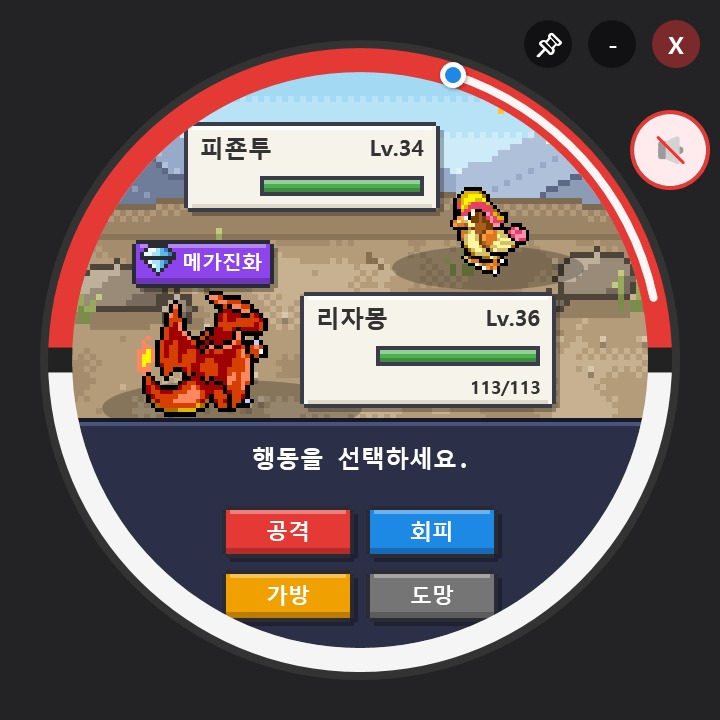
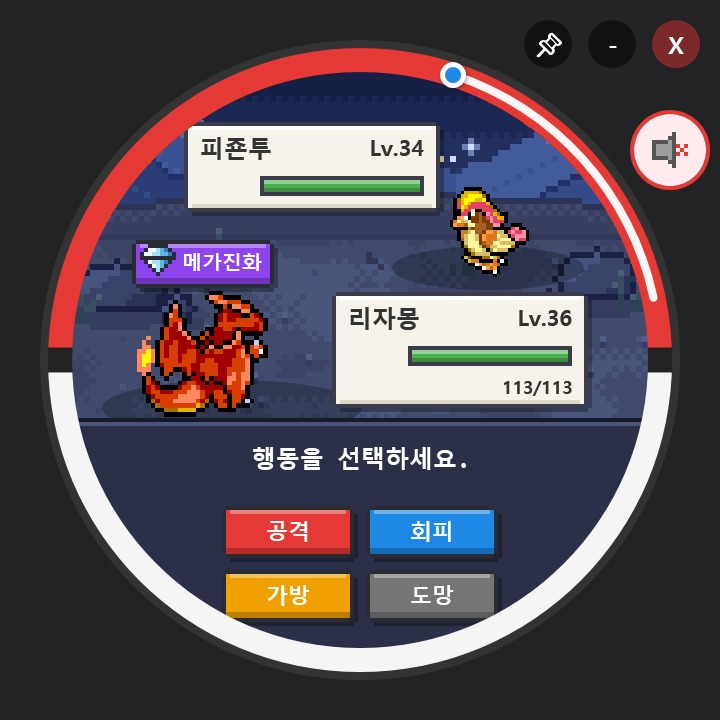
이모지 라이브러리를 빼고 남은 이모지를 픽셀 아이콘으로
- 대기 화면 소리 버튼, 배틀 상태이상 효과(화상/독/맹독/마비/얼음/잠듦), 산책 말풍선을 픽셀 아이콘으로
- 좋아하는 열매 이름에서 이모지 제거
- Emoji.Wpf 패키지 제거 (실행 폴더의 DLL 4개가 빠짐)
- 배틀에서 내 포켓몬 상태창을 오른쪽으로, 상태이상 아이콘이 메가진화 버튼에 가리지 않게
- 스크린샷 갱신

Changed region(s): [[0.0917, 0.0917, 0.9167, 0.5806], [0.8861, 0.1833, 0.9472, 0.2444]]

diff --git a/Views/BattleView.xaml b/Views/BattleView.xaml
@@ -3,7 +3,6 @@
              xmlns:x="http://schemas.microsoft.com/winfx/2006/xaml"
              xmlns:u="clr-namespace:TamaPoke.Utils"
              xmlns:conv="clr-namespace:TamaPoke.Converters"
-             xmlns:emoji="clr-namespace:Emoji.Wpf;assembly=Emoji.Wpf"
              Height="288" Width="288"
              HorizontalAlignment="Center" VerticalAlignment="Center">
 
@@ -50,8 +49,10 @@
         </Style>
 
         <!-- 스프라이트 위 상태이상 이모지: 위아래로 살짝 둥실둥실 -->
-        <Style TargetType="emoji:TextBlock" x:Key="AilmentFxStyle">
-            <Setter Property="FontSize" Value="16"/>
+        <Style TargetType="Image" x:Key="AilmentFxStyle">
+            <Setter Property="Width" Value="18"/>
+            <Setter Property="Height" Value="18"/>
+            <Setter Property="RenderOptions.BitmapScalingMode" Value="NearestNeighbor"/>
             <Setter Property="IsHitTestVisible" Value="False"/>
             <Setter Property="RenderTransform">
                 <Setter.Value><TranslateTransform Y="0"/></Setter.Value>
@@ -143,8 +144,8 @@
 
             <Image x:Name="EnemySprite" Source="{Binding EnemyCurrentFrame}" Visibility="{Binding IsEnemyVisible, Converter={StaticResource BoolToVis}}" Width="72" Height="72" HorizontalAlignment="Left" VerticalAlignment="Top" Margin="178,54,0,0" RenderOptions.BitmapScalingMode="NearestNeighbor"/>
 
-            <emoji:TextBlock Style="{StaticResource AilmentFxStyle}" HorizontalAlignment="Right" VerticalAlignment="Top" Margin="0,49,43,0" Panel.ZIndex="5"
-                             Text="{Binding EnemyAilment, Converter={StaticResource AilmentStyle}, ConverterParameter=Fx}"
+            <Image Style="{StaticResource AilmentFxStyle}" HorizontalAlignment="Right" VerticalAlignment="Top" Margin="0,49,43,0" Panel.ZIndex="5"
+                             Source="{Binding EnemyAilment, Converter={StaticResource AilmentStyle}, ConverterParameter=Fx}"
                              Visibility="{Binding IsEnemyVisible, Converter={StaticResource BoolToVis}}"/>
 
             <!-- 💎 메가진화 연출: 메가링 반응(빛 + 무지개 고리) → 흰 섬광과 함께 메가 모습으로 -->
@@ -215,8 +216,8 @@
             <!-- 🌟 플레이어 이미지: 뒷모습(오른쪽 위를 바라봄)을 1.5배로, 발이 메시지 창 경계에 오도록 (화면 앞쪽에 있는 느낌) -->
             <Image x:Name="PlayerSprite" Source="{Binding CurrentFrame}" Width="108" Height="108" HorizontalAlignment="Left" VerticalAlignment="Top" Margin="26,105,0,0" RenderOptions.BitmapScalingMode="NearestNeighbor"/>
 
-            <emoji:TextBlock Style="{StaticResource AilmentFxStyle}" HorizontalAlignment="Left" VerticalAlignment="Bottom" Margin="112,0,0,60" Panel.ZIndex="5"
-                             Text="{Binding PlayerAilment, Converter={StaticResource AilmentStyle}, ConverterParameter=Fx}"/>
+            <Image Style="{StaticResource AilmentFxStyle}" HorizontalAlignment="Left" VerticalAlignment="Bottom" Margin="106,0,0,40" Panel.ZIndex="5"
+                             Source="{Binding PlayerAilment, Converter={StaticResource AilmentStyle}, ConverterParameter=Fx}"/>
 
             <!-- 메가진화 순간의 흰 섬광 (메가링 반응 연출이 끝날 때) -->
             <Rectangle Fill="White" Opacity="0" IsHitTestVisible="False" Panel.ZIndex="20">
@@ -263,7 +264,7 @@
                 <Image Source="/TamaPoke;component/Assets/UI/icon_ball.png" Width="18" Height="18" RenderOptions.BitmapScalingMode="NearestNeighbor"/>
             </Grid>
 
-            <ContentControl Style="{StaticResource PixelPanel}" Margin="0,0,46,5" Padding="8,5,8,5" HorizontalAlignment="Right" VerticalAlignment="Bottom" Width="128">
+            <ContentControl Style="{StaticResource PixelPanel}" Margin="0,0,30,5" Padding="8,5,8,5" HorizontalAlignment="Right" VerticalAlignment="Bottom" Width="128">
                 <StackPanel>
                     <!-- 🌟 플레이어 이름, 상태이상, 레벨 패널 -->
                     <Grid>

diff --git a/Views/RoamingView.xaml b/Views/RoamingView.xaml
@@ -3,7 +3,6 @@
              xmlns:x="http://schemas.microsoft.com/winfx/2006/xaml"
              xmlns:mc="http://schemas.openxmlformats.org/markup-compatibility/2006" 
              xmlns:d="http://schemas.microsoft.com/expression/blend/2008" 
-             xmlns:emoji="clr-namespace:Emoji.Wpf;assembly=Emoji.Wpf"
              mc:Ignorable="d" 
              Background="Transparent">
 
@@ -135,21 +134,21 @@
         </Grid>
 
         <!-- 머리 위 말풍선 (산책 중 아이템을 주웠을 때 등): 나타날 때 아래에서 살짝 떠오릅니다. -->
-        <emoji:TextBlock Text="{Binding RoamingBubble, NotifyOnTargetUpdated=True}" FontSize="12"
+        <Image Source="{Binding RoamingBubble, NotifyOnTargetUpdated=True}" Width="18" Height="18" RenderOptions.BitmapScalingMode="NearestNeighbor"
                          HorizontalAlignment="Center" VerticalAlignment="Center" Margin="0,0,0,58" IsHitTestVisible="False">
-            <emoji:TextBlock.RenderTransform>
+            <Image.RenderTransform>
                 <TranslateTransform Y="0"/>
-            </emoji:TextBlock.RenderTransform>
-            <emoji:TextBlock.Style>
-                <Style TargetType="emoji:TextBlock">
+            </Image.RenderTransform>
+            <Image.Style>
+                <Style TargetType="Image">
                     <Style.Triggers>
-                        <DataTrigger Binding="{Binding RoamingBubble}" Value="">
+                        <DataTrigger Binding="{Binding RoamingBubble}" Value="{x:Null}">
                             <Setter Property="Visibility" Value="Collapsed"/>
                         </DataTrigger>
                     </Style.Triggers>
                 </Style>
-            </emoji:TextBlock.Style>
-            <emoji:TextBlock.Triggers>
+            </Image.Style>
+            <Image.Triggers>
                 <EventTrigger RoutedEvent="Binding.TargetUpdated">
                     <BeginStoryboard>
                         <Storyboard>
@@ -158,8 +157,8 @@
                         </Storyboard>
                     </BeginStoryboard>
                 </EventTrigger>
-            </emoji:TextBlock.Triggers>
-        </emoji:TextBlock>
+            </Image.Triggers>
+        </Image>
     </Grid>
 
 </UserControl>

diff --git a/Views/IdleView.xaml b/Views/IdleView.xaml
@@ -6,7 +6,6 @@
              xmlns:d="http://schemas.microsoft.com/expression/blend/2008" 
              xmlns:conv="clr-namespace:TamaPoke.Converters"
              xmlns:views="clr-namespace:TamaPoke.Views"
-             xmlns:emoji="clr-namespace:Emoji.Wpf;assembly=Emoji.Wpf"
              mc:Ignorable="d" 
              UseLayoutRounding="True"
              SnapsToDevicePixels="True"
@@ -446,7 +445,7 @@
                         <Setter.Value>
                             <ControlTemplate TargetType="Button">
                                 <Border x:Name="bg" Background="#E8F5E9" BorderBrush="#4CAF50" BorderThickness="2" CornerRadius="20">
-                                    <emoji:TextBlock x:Name="icon" Text="🔊" FontSize="18" HorizontalAlignment="Center" VerticalAlignment="Center" Margin="0,0,0,2"/>
+                                    <Image x:Name="icon" Source="/TamaPoke;component/Assets/UI/icon_sound_on.png" Width="18" Height="18" RenderOptions.BitmapScalingMode="NearestNeighbor" HorizontalAlignment="Center" VerticalAlignment="Center"/>
                                 </Border>
                                 <ControlTemplate.Triggers>
                                     <Trigger Property="IsMouseOver" Value="True">
@@ -455,7 +454,7 @@
                                     <DataTrigger Binding="{Binding IsMuted}" Value="True">
                                         <Setter TargetName="bg" Property="Background" Value="#FFEBEE"/>
                                         <Setter TargetName="bg" Property="BorderBrush" Value="#E53935"/>
-                                        <Setter TargetName="icon" Property="Text" Value="🔇"/>
+                                        <Setter TargetName="icon" Property="Source" Value="/TamaPoke;component/Assets/UI/icon_sound_off.png"/>
                                     </DataTrigger>
                                 </ControlTemplate.Triggers>
                             </ControlTemplate>

diff --git a/Views/ProfileCardView.xaml b/Views/ProfileCardView.xaml
@@ -4,7 +4,6 @@
              xmlns:lc="clr-namespace:TamaPoke.Converters"
              xmlns:u="clr-namespace:TamaPoke.Utils"
              xmlns:local="clr-namespace:TamaPoke.Utils.Service"
-             xmlns:emoji="clr-namespace:Emoji.Wpf;assembly=Emoji.Wpf"
              xmlns:conv="clr-namespace:TamaPoke.Converters"
              Height="288" Width="288" 
              HorizontalAlignment="Center" VerticalAlignment="Center">
@@ -197,7 +196,7 @@
                         <Image Source="/TamaPoke;component/Assets/UI/icon_berry_red.png" Style="{StaticResource PixelIcon}" Margin="0,0,3,0" VerticalAlignment="Center"/>
                         <TextBlock Text="{u:T profile.favoriteBerry}" FontSize="11" Foreground="#777" VerticalAlignment="Center"/>
                     </StackPanel>
-                    <emoji:TextBlock Text="{Binding FavoriteBerryName}" FontSize="13" FontWeight="Bold" Foreground="#2E7D32" HorizontalAlignment="Center"/>
+                    <TextBlock Text="{Binding FavoriteBerryName}" FontSize="13" FontWeight="Bold" Foreground="#2E7D32" HorizontalAlignment="Center"/>
                 </StackPanel>
             </Grid>
 

diff --git a/Views/BallGameView.xaml b/Views/BallGameView.xaml
@@ -2,7 +2,6 @@
              xmlns="http://schemas.microsoft.com/winfx/2006/xaml/presentation"
              xmlns:x="http://schemas.microsoft.com/winfx/2006/xaml"
              xmlns:u="clr-namespace:TamaPoke.Utils"
-             xmlns:emoji="clr-namespace:Emoji.Wpf;assembly=Emoji.Wpf"
              Height="320" Width="350"
              MouseMove="GameArea_MouseMove"
              RenderOptions.BitmapScalingMode="NearestNeighbor">

diff --git a/Views/CatchGameView.xaml b/Views/CatchGameView.xaml
@@ -2,7 +2,6 @@
              xmlns="http://schemas.microsoft.com/winfx/2006/xaml/presentation"
              xmlns:x="http://schemas.microsoft.com/winfx/2006/xaml"
              xmlns:u="clr-namespace:TamaPoke.Utils"
-             xmlns:emoji="clr-namespace:Emoji.Wpf;assembly=Emoji.Wpf"
              Height="320" Width="350"
              MouseMove="GameArea_MouseMove"
              RenderOptions.BitmapScalingMode="NearestNeighbor">

diff --git a/Views/CleanGameView.xaml b/Views/CleanGameView.xaml
@@ -2,7 +2,6 @@
              xmlns="http://schemas.microsoft.com/winfx/2006/xaml/presentation"
              xmlns:x="http://schemas.microsoft.com/winfx/2006/xaml"
              xmlns:u="clr-namespace:TamaPoke.Utils"
-             xmlns:emoji="clr-namespace:Emoji.Wpf;assembly=Emoji.Wpf"
              Height="320" Width="350"
              MouseMove="GameArea_MouseMove"
              RenderOptions.BitmapScalingMode="NearestNeighbor">

diff --git a/Views/InventoryView.xaml b/Views/InventoryView.xaml
@@ -3,7 +3,6 @@
              xmlns:x="http://schemas.microsoft.com/winfx/2006/xaml"
              xmlns:lc="clr-namespace:TamaPoke.Converters"
              xmlns:u="clr-namespace:TamaPoke.Utils"
-             xmlns:emoji="clr-namespace:Emoji.Wpf;assembly=Emoji.Wpf"
              Width="288" Height="288">
 
     <UserControl.Resources>

diff --git a/Converters/AilmentStyleConverter.cs b/Converters/AilmentStyleConverter.cs
@@ -9,20 +9,22 @@ using TamaPoke.Utils;
 namespace TamaPoke.Converters
 {
     // 상태이상(SkillAilment)을 배틀 화면 배지 표시값으로 변환합니다.
-    // ConverterParameter: Text(배지 글자), Fx(스프라이트 위 이모지), Bg/Fg/Border(배지 색), Visibility
+    // ConverterParameter: Text(배지 글자), Fx(스프라이트 위 픽셀 그림 경로), Bg/Fg/Border(배지 색), Visibility
     public class AilmentStyleConverter : IValueConverter
     {
         private static readonly BrushConverter _brush = new();
 
-        private static (string Text, string Fx, string Bg, string Fg, string Border) Style(SkillAilment a) => a switch
+        private static string Fx(string name) => $"pack://application:,,,/TamaPoke;component/Assets/UI/{name}.png";
+
+        private static (string Text, string? Fx, string Bg, string Fg, string Border) Style(SkillAilment a) => a switch
         {
-            SkillAilment.Burn => (Loc.T("ailment.badge.burn"), "🔥", "#FAECE7", "#712B13", "#D85A30"),
-            SkillAilment.Poison => (Loc.T("ailment.badge.poison"), "☠", "#EEEDFE", "#3C3489", "#7F77DD"),
-            SkillAilment.BadPoison => (Loc.T("ailment.badge.badPoison"), "💀", "#FBEAF0", "#72243E", "#D4537E"),
-            SkillAilment.Paralysis => (Loc.T("ailment.badge.paralysis"), "⚡", "#FAEEDA", "#633806", "#BA7517"),
-            SkillAilment.Sleep => (Loc.T("ailment.badge.sleep"), "💤", "#F1EFE8", "#444441", "#888780"),
-            SkillAilment.Freeze => (Loc.T("ailment.badge.freeze"), "❄", "#E6F1FB", "#0C447C", "#378ADD"),
-            _ => ("", "", "#00000000", "#00000000", "#00000000")
+            SkillAilment.Burn => (Loc.T("ailment.badge.burn"), Fx("fx_burn"), "#FAECE7", "#712B13", "#D85A30"),
+            SkillAilment.Poison => (Loc.T("ailment.badge.poison"), Fx("fx_poison"), "#EEEDFE", "#3C3489", "#7F77DD"),
+            SkillAilment.BadPoison => (Loc.T("ailment.badge.badPoison"), Fx("fx_badpoison"), "#FBEAF0", "#72243E", "#D4537E"),
+            SkillAilment.Paralysis => (Loc.T("ailment.badge.paralysis"), Fx("fx_paralysis"), "#FAEEDA", "#633806", "#BA7517"),
+            SkillAilment.Sleep => (Loc.T("ailment.badge.sleep"), Fx("icon_sleep"), "#F1EFE8", "#444441", "#888780"),
+            SkillAilment.Freeze => (Loc.T("ailment.badge.freeze"), Fx("fx_freeze"), "#E6F1FB", "#0C447C", "#378ADD"),
+            _ => ("", null, "#00000000", "#00000000", "#00000000")
         };
 
         public object Convert(object value, Type targetType, object parameter, CultureInfo culture)

diff --git a/Views/RoamingPet.cs b/Views/RoamingPet.cs
@@ -322,7 +322,9 @@ namespace TamaPoke.Views
                         SetAction(PokemonState.ANIM_HOP, 40);
                         if (PendingFoundItem != null)
                         {
-                            State.ShowRoamingBubble(PendingFoundItem.Icon);
+                            State.ShowRoamingBubble(PendingFoundItem.Id == ItemDex.MegaShard.Id
+                                ? "pack://application:,,,/TamaPoke;component/Assets/UI/icon_mega.png"
+                                : $"pack://application:,,,/TamaPoke;component/Assets/UI/item_{PendingFoundItem.Id}.png");
                             PendingFoundItem = null;
                         }
                     }
@@ -379,7 +381,7 @@ namespace TamaPoke.Views
             var form = MegaForms[_rnd.Next(MegaForms.Count)];
             string file = SpriteForms.ApplyVariants(AppPaths.GetSpriteForms(_member.SpeciesId), form.SpriteFileName, _member.IsShiny, _member.IsFemale);
             ChangeSprite(file);
-            State.ShowRoamingBubble("💎", 3);
+            State.ShowRoamingBubble("pack://application:,,,/TamaPoke;component/Assets/UI/icon_mega.png", 3);
             _megaEndsAt = DateTime.Now + MegaDuration;
         }
 

diff --git a/Models/PokemonState.Roaming.cs b/Models/PokemonState.Roaming.cs
@@ -195,15 +195,15 @@ namespace TamaPoke.Models
         private bool _isRummaging;
         [JsonIgnore] public bool IsRummaging { get => _isRummaging; set => SetProperty(ref _isRummaging, value); }
 
-        // 산책 펫 머리 위 말풍선 (아이템을 주웠을 때 등)
-        private string _roamingBubble = string.Empty;
-        [JsonIgnore] public string RoamingBubble { get => _roamingBubble; set => SetProperty(ref _roamingBubble, value); }
+        // 산책 펫 머리 위 말풍선 그림 경로 (아이템을 주웠을 때 등). 없으면 null
+        private string? _roamingBubble;
+        [JsonIgnore] public string? RoamingBubble { get => _roamingBubble; set => SetProperty(ref _roamingBubble, value); }
 
-        public async void ShowRoamingBubble(string text, int displaySeconds = 3)
+        public async void ShowRoamingBubble(string image, int displaySeconds = 3)
         {
-            RoamingBubble = text;
+            RoamingBubble = image;
             await Task.Delay(displaySeconds * 1000);
-            if (RoamingBubble == text) RoamingBubble = string.Empty;
+            if (RoamingBubble == image) RoamingBubble = null;
         }
         #endregion
     }
